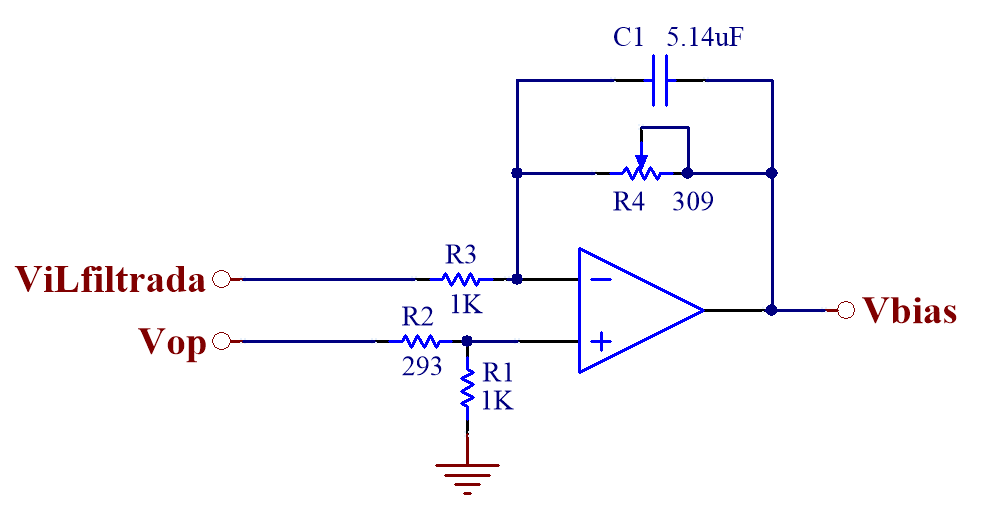
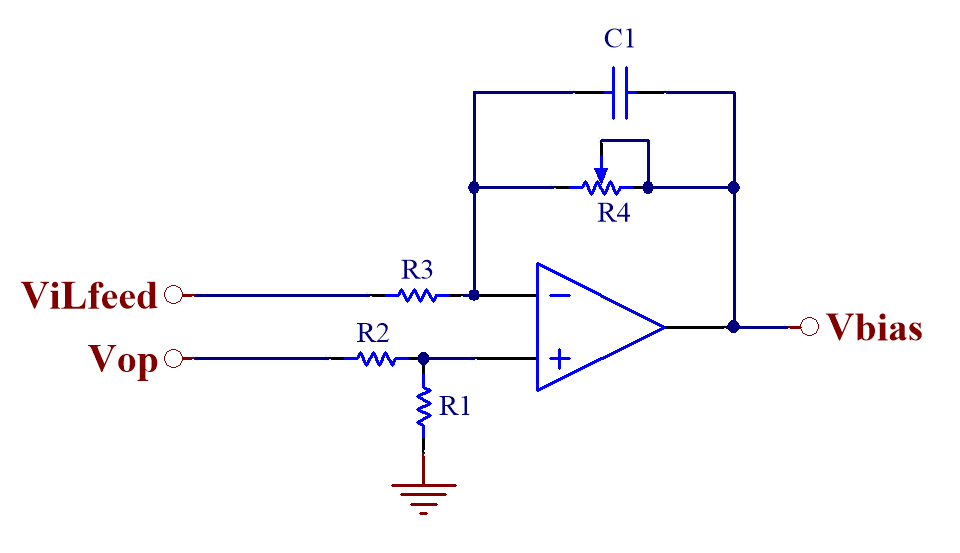
cambios e imagen

Changed region(s): [[0.0, 0.0304, 1.0, 0.943]]

diff --git a/Informe final/Proyecto Levitador LaTeX/Informe/5-EstimadorAnalogico/EstimadorAnalogico.tex b/Informe final/Proyecto Levitador LaTeX/Informe/5-EstimadorAnalogico/EstimadorAnalogico.tex
@@ -312,7 +312,7 @@ Para entender el funcionamiento del rectificador, se comienza con el análisis d
 
 \begin{figure}[H]
 	\centering
-	\includegraphics[scale=0.7]{Rectificador-y-restador.png}
+	\includegraphics[scale=0.6]{Rectificador-y-restador.png}
 	\caption{Circuito rectificador.}
 	\label{fig:img_Rectificador_y_restador}
 \end{figure}
@@ -413,13 +413,17 @@ Finalmente, la tensión de salida del restador, para cualquier valor de $V_{deri
 
 \subsection{Filtrado}
 
-En el restador se implementa un filtrado adicional a la señal de salida como se observa en la figura  \ref{fig:img_Esquema-circuital-del-restador-con-una-etapa-de-filtrado-en-159}. De esta \'{u}ltima etapa, si se considera $C_5=C_6=C\ $y $R_{33}=R_{31}=R$, se obtiene:
+En el restador se implementa un filtrado adicional a la señal de salida como se observa en la figura  \ref{fig:img_Esquema-circuital-del-restador-con-una-etapa-de-filtrado-en-159}. 
 
+\begin{figure}[H]
+	\centering
+	\includegraphics[scale=0.5]{Esquema-circuital-del-restador-con-una-etapa-de-filtrado-en-159.png}
+	\caption{Esquema circuital del restador con una etapa de filtrado.}
+	\label{fig:img_Esquema-circuital-del-restador-con-una-etapa-de-filtrado-en-159}
+\end{figure}
 
+De esta última etapa, si se considera $C_5=C_6=C\ $y $R_{33}=R_{31}=R$, se obtiene:
 
-\begin{equation}
-	V_{estim}=\frac{1}{1+s*C*R}*{(V}^+-V^-\ +\ 2.5\:V)
-\end{equation}
 
 \begin{equation} \label{eq_Vestim_1}
 	V_{estim}=\frac{1}{1+s*C*R}*(2.5\: V\ +\ |\mathit{\Delta}V_{deriv}|)
@@ -429,7 +433,7 @@ En el restador se implementa un filtrado adicional a la señal de salida como se
 	V_{estim} \approx \frac{1}{1+s*C*R}*\ |\mathit{\Delta}V_{deriv}|\ +2.5\:V
 \end{equation}
 
-Puesto que la salida $V_{estim}$ debe ser una continua, es importante eliminar cualquier posible ripple. Por ello, se elige una frecuencia de corte de $1\:kr/s$ por lo que se debe cumplir que:
+Puesto que la salida $V_{estim}$ debe ser una señal continua, es importante eliminar cualquier posible ripple. Por ello, se elige una frecuencia de corte de $1\:kr/s$ por lo que se debe cumplir que:
 
 \begin{equation}\label{eq_filtro_restador}
 	 \frac{1}{C*R}=1\:kr/s
@@ -437,28 +441,20 @@ Puesto que la salida $V_{estim}$ debe ser una continua, es importante eliminar c
 
 A partir de la expresión \ref{eq_filtro_restador}, se elige $C=10\: nF$ resultando en una resistencia $R=100\:k\Omega$.
 
-\begin{figure}[H]
-	\centering
-	\includegraphics[scale=0.6]{Esquema-circuital-del-restador-con-una-etapa-de-filtrado-en-159.png}
-	\caption{Esquema circuital del restador con una etapa de filtrado en $159.2\: Hz$.}
-	\label{fig:img_Esquema-circuital-del-restador-con-una-etapa-de-filtrado-en-159}
-\end{figure}
-
-
 \section{Simulaciones de derivador y rectificador}
 
 A continuación se realizan simulaciones del circuito estimador conformado por los bloques derivador, rectificador y filtrado. Para ello se utilizó el software NL5 y se anexó el circuito estimador dentro del controlador de corriente. En la figura \ref{fig:img_simulacion_derivador+rectificador} se muestra el circuito utilizado para la simulación.
 
 \begin{figure}[H]
 	\centering
-	\includegraphics[scale=0.75]{simulacion_derivador+rectificador.png}
+	\includegraphics[scale=0.35]{simulacion_derivador+rectificador.png}
 	\caption{Circuito utilizado para simulación.}
 	\label{fig:img_simulacion_derivador+rectificador}
 \end{figure}
 
 \subsection{Simulación en régimen permanente} \label{sec_simulacion_estimador_basico}
 
-Se realizó una simulación del controlador de corriente junto con el estimador, utilizando $V_{IL_{ref}}=5\:V$, que resulta en una corriente media del electroimán $\overline{I_L}=30\:A$. En la figura \ref{fig:img_simulacion_derivador+rectificador_ss} se muestran las formas de onda de la corriente del electroimán, la salida del circuito derivador, y la salida del rectificador. 
+Se realizó una simulación del controlador de corriente junto con el estimador, utilizando $V_{IL_{ref}}=5\:V$, que resulta en una corriente media del electroimán de $30\:A$. En la figura \ref{fig:img_simulacion_derivador+rectificador_ss} se muestran las formas de onda de la corriente del electroimán, la salida del circuito derivador, y la salida del rectificador. 
 
 \begin{figure}[H]
 	\centering
@@ -467,7 +463,7 @@ Se realizó una simulación del controlador de corriente junto con el estimador,
 	\label{fig:img_simulacion_derivador+rectificador_ss}
 \end{figure}
 
-Al observar la figura \ref{fig:img_simulacion_derivador+rectificador_ss} es posible notar dos problemas. El primero es que la forma de onda de corriente presenta pendientes de crecimiento y de decrecimiento asimétricas. Esto es provocado por el efecto de la resistencia interna del electroimán, que se hace notorio cuando se trabaja con corrientes elevadas. Esta asimetría en las pendientes provoca que la salida del derivador no sea simétrica alrededor de $V_{op}$. Por lo tanto, como luego se rectifica esta señal pulsada alrededor de $V_{op}$, la señal resultante presentará variaciones. El segundo problema es que la salida del derivador, con forma de onda pulsada, presenta un comportamiento ruidoso tanto en el nivel superior como en el inferior. Esto proviene de la conmutación auxiliar, que también es derivada. 
+Al observar la figura \ref{fig:img_simulacion_derivador+rectificador_ss} es posible notar dos problemas. El primero es que la forma de onda de corriente presenta pendientes de crecimiento y de decrecimiento asimétricas. Esto es provocado por el efecto de la resistencia interna del electroimán, que se hace notorio cuando se trabaja con corrientes elevadas. Esta asimetría en las pendientes provoca que la salida del derivador no sea simétrica alrededor de $V_{op}$. Por lo tanto, como luego se rectifica esta señal pulsada alrededor de $V_{op}$, la señal resultante presentará variaciones, que según mediciones realizadas con los cursores de la simulación se determinó que su amplitud es de $233\:mV$. El segundo problema es que la salida del derivador, con forma de onda pulsada, presenta un comportamiento ruidoso tanto en el nivel superior como en el inferior. Esto proviene principalmente de la conmutación auxiliar, que también es amplificada por el derivador. 
 
 Por lo tanto, a continuación se analiza en profundidad ambos inconvenientes y se plantean soluciones a los mismos: un filtro pasa bajos en la entrada del estimador y una compensación para los efectos de la resistencia interna.
 
@@ -486,7 +482,6 @@ Para su implementación se utiliza un filtro activo Butterworth de segundo orden
 	\label{fig:img_Filtro-para-la-entrada-del-derivador}
 \end{figure}
 
-\colorbox{red}{deberíamos cambiar la imagen poniendo los nombres de la señal que entra (vilfeed) y la que sale (vilfiltrada)}
 \begin{figure}[H]
 	\centering
 	\includegraphics[scale=1]{Filtro-Activo.png}
@@ -494,9 +489,7 @@ Para su implementación se utiliza un filtro activo Butterworth de segundo orden
 	\label{fig:img_Respuesta-en-frecuencia-del-filtro-activo}
 \end{figure}
 
-\colorbox{red}{hará falta aclarar qué software usamos para el diseño??}
-
-A continuación, en la figura \ref{fig:img_simulacion_lpf_entrada} se muestra el resultado de una simulación agregando el filtro LPF en la entrada. Esta simulación fue realizada con las mismas condiciones de corriente e inductancia que la de la figura \ref{fig:img_simulacion_derivador+rectificador_ss}.
+En la figura \ref{fig:img_simulacion_lpf_entrada} se muestra el resultado de una simulación agregando el filtro pasa bajos en la entrada. Se puede observar que, en comparación con la figura \ref{fig:img_simulacion_derivador+rectificador_ss}, la señal de salida del derivador es menos ruidosa. Esta simulación fue realizada con las mismas condiciones de corriente e inductancia que en la figura \ref{fig:img_simulacion_derivador+rectificador_ss}.
 
 \begin{figure}[H]
 	\centering
@@ -505,13 +498,13 @@ A continuación, en la figura \ref{fig:img_simulacion_lpf_entrada} se muestra el
 	\label{fig:img_simulacion_lpf_entrada}
 \end{figure}
 
-Se puede observar que, en comparación con la figura \ref{fig:img_simulacion_derivador+rectificador_ss}, la señal de salida del derivador es menos ruidosa. Si bien en la señal $V_{estim}$ no se observa gran diferencia, el agregado del filtro en la entrada mejora la estimación de posición.
+
 
 \section{Compensación de resistencia interna}
 
-El segundo inconveniente mencionado en la sección de simulaciones es la diferencia entre pendientes de crecimiento y de decrecimiento causada por la resistencia interna del electroimán. A continuación se analiza cómo esta corriente provoca este efecto, y qué solución se propone.
+El segundo inconveniente mencionado en la sección \ref{sec_simulacion_estimador_basico} es la diferencia entre pendientes de crecimiento y de decrecimiento causada por la resistencia interna del electroimán. A continuación se analiza cómo esta corriente provoca dicho efecto, y qué solución se propone.
 
-Al circular corriente siempre en el mismo sentido por el electroimán, se produce una caída de tensión constante en su resistencia interna. Esto provoca que no siempre estén aplicados $\pm 24\:V$ al electroimán sino que, durante el tiempo en que la corriente crece ($T_{ON}$) se aplican $+24\:V-I_L*R_L$ y durante el tiempo en que la corriente decrece ($T_{OFF}$) se aplican $-24\:V-I_L*R_L$. Esto genera que las pendientes sean distintas. Se puede reescribir la ecuación \ref{eq_derivada_corriente_3} para tener en cuenta el efecto mencionado:
+Al circular corriente siempre en el mismo sentido por el electroimán, se produce una caída de tensión constante en su resistencia interna. Esto provoca que no siempre estén aplicados $\pm V_{cc}$ al electroimán sino que, durante el tiempo en que la corriente crece ($T_{ON}$) se aplican $+V_{cc}-I_L*R_L$ y durante el tiempo en que la corriente decrece ($T_{OFF}$) se aplican $-V_{cc}-I_L*R_L$. Esto genera que las pendientes sean distintas. Se puede reescribir la ecuación \ref{eq_derivada_corriente_3} para tener en cuenta el efecto mencionado, considerando que $I_L$ corresponde al valor medio de la corriente del electroimán:
 
 \begin{equation} \label{eq_Vbus-didt-RL}
 	\left|\frac{di_L}{dt}\right|=\left|\frac{\pm V_{cc}-R_L*I_L}{L(Y_g)}\right|
@@ -537,7 +530,7 @@ Para el caso en que $V_{cc}=-24\:V$:
 
 Por lo tanto, sobre el electroimán se aplican dos tensiones distintas, en valor absoluto, durante la carga y descarga. Esto provoca que la rampa de corriente sea asimétrica.
 
-Como se planteó en la sección \ref{sec_simulacion_estimador_basico}, esta diferencia de pendientes provoca que la salida del derivador no tenga una excursión simétrica al rededor del punto de operación $V_{op}=2.5\:V$. Este efecto se muestra con mayor detalle en la figura \ref{fig:img_simulacion_derivador_vmed}. El circuito de rectificador diseñado rectifica la señal del derivador suponiendo que la señal es simétrica alrededor de $V_{op}$. Pero como no lo es, se obtienen saltos de tensión.
+Como se planteó en la sección \ref{sec_simulacion_estimador_basico}, esta diferencia de pendientes provoca que la salida del derivador no tenga una excursión simétrica al rededor del punto de operación $V_{op}=2.5\:V$. Este efecto se muestra con mayor detalle en la figura \ref{fig:img_simulacion_derivador_vmed}.
 
 \begin{figure}[H]
 	\centering
@@ -546,8 +539,7 @@ Como se planteó en la sección \ref{sec_simulacion_estimador_basico}, esta dife
 	\label{fig:img_simulacion_derivador_vmed}
 \end{figure}
 
-En la figura \ref{fig:img_simulacion_sin_compensacion_IR} se muestra la señal $V_{estim}$ sin su etapa de filtrado, para que se vea mas claro el efecto provocado al rectificar la salida del derivador. 
-\colorbox{red}{le saqué el filtro a la salida para que se vean mejor los saltos de tensión}
+En la figura \ref{fig:img_simulacion_sin_compensacion_IR} se muestra la señal $V_{estim}$ sin la etapa de filtrado del restador, para que se vea mas claro el efecto provocado al rectificar la salida del derivador. 
 
 %Debido a que luego se utilizará un rectificador de onda completa, se desea que la rectificación de cada una de estas pendientes resulte en el mismo valor. En la figura \ref{fig:img_Forma-de-onda-luego-de-rectificar-sin-compensación-IR} se muestra el efecto luego de la rectificación sin realizar ninguna compensación.
 
@@ -569,37 +561,33 @@ Para modificar el punto de operación se debe cambiar la tensión en la entrada 
 	\label{fig:img_Esquema-circuital-del-derivador}
 \end{figure}
 
-Se tiene que la pendiente de bajada de la onda triangular, en módulo, es mayor que la de subida. Por lo tanto, al derivarla (con la inversión de signo), queda por encima del punto de operación, y la pendiente de subida, por debajo. Por ello, se debe compensar el punto de operación para que la forma de onda sea simétrica alrededor de $2.5\:V$. 
+La pendiente de bajada de la onda triangular, en módulo, es mayor que la de subida. Por lo tanto, al derivarla (con la inversión de signo), queda por encima del punto de operación, y la pendiente de subida, por debajo. Por ello, se debe compensar el punto de operación para que la forma de onda sea simétrica alrededor de $2.5\:V$. 
 
 Para la pendiente de bajada, la salida del derivador es:
 
 \begin{equation} \label{eq_Vyf-Vbias}
-	{Vyf}_{off}\ =\ V_{bias}+H_0\ *\ \tau *\frac{\abs{V_{cc}}\ +\ I_L*R_L}{L(Y_g)}\ 
+	V_{deriv_{sup}} =\ V_{bias}+H_0\ *\ \tau *\frac{\abs{V_{cc}}\ +\ I_L*R_L}{L(Y_g)}\ 
 \end{equation}
 
-Para la pendiente de subida se tiene:
+Para la pendiente de subida:
 
 \begin{equation} \label{eq_Vyf-Vbias2}
-	{Vyf}_{on}\ =\ V_{bias}\ -\ H_0\ *\ \tau *\frac{\abs{V_{cc}} -\ I_L*R_L}{L(Y_g)}
+	V_{deriv_{inf}} =\ V_{bias}\ -\ H_0\ *\ \tau *\frac{\abs{V_{cc}} -\ I_L*R_L}{L(Y_g)}
 \end{equation}
 
 Se desea que se cumpla:
 
 \begin{equation} \label{eq_Vyf_Vbias3}
-	{Vyf}_{off}\ -2.5\ \:V=\ 2.5\ V\ -{Vyf}_{on}
+	V_{deriv_{sup}} -2.5\:V=\ 2.5\:V\ - V_{deriv_{inf}}
 \end{equation}
 
 Si se despeja $V_{bias}$ se llega a:
 
 \begin{equation} \label{eq_Vyf-Vbias4}
-	V_{bias}\ =2.5\ \:V -\ H_0\ *I_L*\ \tau *\frac{\ R_L}{L(Y_g)}
+	V_{bias}\ =2.5 \:V -\ H_0\ *I_L*\ \tau *\frac{\ R_L}{L(Y_g)}
 \end{equation}
 
-Para generar la tensión $V_{bias}$ se debe implementar un circuito que mida la corriente del electroimán y entregue en su salida la tensión que indica la expresión \ref{eq_Vyf-Vbias4}. Como no se tiene acceso directo a la corriente del electroimán, sino que se tiene la tensión de realimentación de corriente $V_{IL_{feed}}=H_0*I_L+0.1\:V$, se utiliza esta tensión como entrada.
-
-Se propone el circuito mostrado en la figura \ref{fig:img_Generación_de_Vbias}.
-
-
+Para generar la tensión $V_{bias}$ se debe implementar un circuito que mida el valor medio de la corriente del electroimán y entregue en su salida la tensión que indica la expresión \ref{eq_Vyf-Vbias4}. Como no se tiene acceso directo a la corriente del electroimán, sino que se tiene la tensión de realimentación de corriente $V_{IL_{feed}}=H_0*I_L+0.1\:V$, se utiliza esta tensión como entrada. Se propone el circuito de la figura \ref{fig:img_Generación_de_Vbias}.
 
 \begin{figure}[H]
 	\centering
@@ -608,17 +596,28 @@ Se propone el circuito mostrado en la figura \ref{fig:img_Generación_de_Vbias}.
 	\label{fig:img_Generación_de_Vbias}
 \end{figure}
 
-\colorbox{red}{acá la que entra es la  vilfeedfiltrada}
+El capacitor $C_1$ cumple la función de obtener el valor medio de la señal de entrada, que tiene forma triangular con frecuencia mínima de $1\:kHz$. Se elige su valor para que, junto con la resistencia $R_4$, filtre la frecuencia fundamental de la onda triangular. Por lo tanto, se ubica la frecuencia de corte una decada por debajo y se impone la siguiente condición de diseño:
 
-Se tiene $H_0 = 53.3\:\frac{mV}{A},\; R_L = 0.2\:\Omega$ y $\tau=C_1*R_1=25 \:ms$. Se utiliza la inductancia para $Y_g=4\:mm$ $L(4\:mm) = 16.44\:mHy$.
+\begin{equation} \label{eq_capacitor_IR}
+	\frac{1}{2*\pi*C_1*R_4}=100\:Hz
+\end{equation}
+
+
 
 A partir del circuito de la figura \ref{fig:img_Generación_de_Vbias} se obtiene:
 
 \begin{equation} \label{eq_Vyf-Vbias3}
-	V_{bias} =-\frac{R_4}{R_3}(H_0I_L+ 0.1\:V)+V_{op}(1+\frac{ R_4}{R_3})(\frac{R_1}{R_1+R_2})
+	V_{bias} =V_{op}(1+\frac{ R_4}{R_3(1+sC_1R_4)})(\frac{R_1}{R_1+R_2})-\frac{R_4(V_{IL_{feed}})}{R_3(1+s C_1R_4)}
 \end{equation}
 
-Para poder llegar a la expresión de la ecuación \ref{eq_Vbus-didt-RL-2} se debe cumplir que:
+Como se mencionó previamente, el capacitor $C_1$ junto con $R_4$ se encargan de filtrar las señales de entrada y obtener a la salida del circuito su valor medio. Por lo tanto, para simplificar el análisis, se plantea la siguiente ecuación:
+
+\begin{equation} 
+	V_{bias} =V_{op}(1+\frac{ R_4}{R_3})(\frac{R_1}{R_1+R_2})-\frac{R_4(I_L*H_0+0.1\:V)}{R_3}
+\end{equation}
+
+
+Para poder llegar a la expresión de la ecuación \ref{eq_Vyf-Vbias4} se debe cumplir que:
 
 \begin{enumerate}
 	\item  $-\frac{R_4}{R_3}=- \tau *\frac{R_L}{L}= -0.304$  
@@ -626,9 +625,11 @@ Para poder llegar a la expresión de la ecuación \ref{eq_Vbus-didt-RL-2} se deb
 	\item  $-\frac{R_4}{R_3}(0.1V)+V_{op}(1+\frac{ R_4}{R_3})(\frac{R_1}{R_1+R_2}) = 2.5V$     
 \end{enumerate}
 
-Por lo tanto, al resolver la condición 1) se elige $R_4 = 304\: \Omega$ y se obtiene $R_3=1\:k\Omega$. Luego, al resolver la condición 2) con $V_{op}=2.5\:V$ se elige $R_1=1\:k\Omega$ y se obtiene $R_{2}=291.8\:\Omega$.
+Se sabe que $H_0 = 53.3\:\frac{mV}{A},\; R_L = 0.2\:\Omega$ y $\tau=C_1*R_1=25 \:ms$. Se utiliza la inductancia $L(4\:mm) = 16.44\:mHy$.
 
-Se volvió a simular el circuito estimador con el agregador del circuito de compensación de resistencia interna. En la figura \ref{fig:img_Formas_de_onda_obtenidas_en_la_simulación} se muestra como cambia la forma de onda a la salida del rectificador.
+Por lo tanto, al resolver la condición 1) se elige $R_4 = 304\: \Omega$ y se obtiene $R_3=1\:k\Omega$. Luego, al resolver la condición 2) con $V_{op}=2.5\:V$ se elige $R_1=1\:k\Omega$ y se obtiene $R_{2}=291.8\:\Omega$. Finalmente, siguiendo la condición \ref{eq_capacitor_IR}, se determina $C_1=5.14\mu F$.
+
+Se simuló nuevamente el circuito estimador con el agregado de la compensación de resistencia interna. En la figura \ref{fig:img_Formas_de_onda_obtenidas_en_la_simulación} se muestra cómo mejoró la forma de onda a la salida del rectificador.
 
 \begin{figure}[H]
 	\centering
@@ -637,15 +638,10 @@ Se volvió a simular el circuito estimador con el agregador del circuito de comp
 	\label{fig:img_Formas_de_onda_obtenidas_en_la_simulación}
 \end{figure}
 
-\colorbox{red}{Esta simulación tiene puesto el filtro pasa bajo a la entrada?} sip, con filtro a la entrada y la señal que entra al compensador IR es la salida del filtro.
-
-\colorbox{red}{faltaría agregar lo del filtrado, la imagen 4.22 ya tiene el capacitor puesto}
-
-La onda superior corresponde a la corriente en el electroimán, la que se encuentra al medio, a la salida del derivador y la inferior, a la onda rectificada con la corrección de la resistencia interna.
 
 \section{Simulación del estimador completo}
 
-Finalmente el circuito estimador completo queda...
+Finalmente el circuito estimador completo y la simulación se muestran en las figuras \ref{fig:img_circuito_final_del_estimador} y \ref{fig:img_simulacion_completo} respectivamente.
 
 \begin{figure}[H]
 \centering
@@ -654,9 +650,6 @@ Finalmente el circuito estimador completo queda...
 \label{fig:img_circuito_final_del_estimador}
 \end{figure}
 
-
-En la figura \ref{fig:img_simulacion_completo} se muestra una simulación del estimador completo (con filtro a la salida).
-
 \begin{figure}[H]
 	\centering
 	\includegraphics[scale=0.3]{simulacion_completo.png}
@@ -664,16 +657,9 @@ En la figura \ref{fig:img_simulacion_completo} se muestra una simulación del es
 	\label{fig:img_simulacion_completo}
 \end{figure}
 
-Se puede observar que la salida del estimador presenta menos oscilaciones. Usando cursores se midió una amplitud pico a pico de $97\:mV$. Sin la compensación resulta en $233\:mV$.
+Se puede observar que la salida del estimador $V_{estim}$ es una señal continua. Mediante la utilización de los cursores se midió una variación de $97\:mV$ en torno al valor medio.
 
-\colorbox{red}{A que se deben los picos en la onda pulsada? Tal ves podríamos aclararlo no?}
-
-
-\colorbox{red}{Ponerle los nombres de las señales en la simulacion}
-
-
-\colorbox{red}{Podríamos agregar la imagen del circuito completo?}
-
+Se puede observar que la salida del estimador presenta menos oscilaciones. Usando cursores se midió una amplitud pico a pico de $97\:mV$, resultando en una mejora con respecto a la simulación realizada en la figura \ref{fig:img_simulacion_derivador+rectificador_ss}, en la que las variaciones de amplitud eran de $233\:mV$.
 
 
 En la tabla \ref{tab_Resultados_de_simulación_del_estimador} se muestran valores medidos de $V_{estim}$ en función de la posición.
